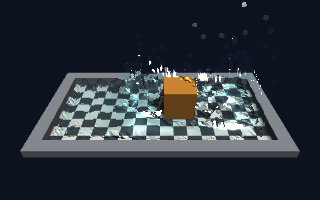
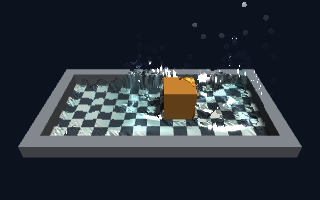
fix(physics): passo estável do PBF derivado do material; suavização da água ciente do plano local (spec 017)
O PBF rodava 1 substep fixo: abaixo de 5 cm de espaçamento o fluido explodia (a calibração de 5 cm a
60 Hz não vale para kernels menores). pbfStableDt = calibração × (h / 0,1)²: 1 substep a 5 cm
(trajetórias inalteradas), 4 a 2,5 cm. Suavização: o limiar de silhueta acompanha a inclinação local
(superfícies rasantes deixavam de suavizar e mostravam bandas). Cena da água com borda de 10 cm;
fixtures da fluidSurface regravadas.

Claude-Session: https://claude.ai/code/session_015NtZ5D3phr8urRhrPuP6ZA

Changed region(s): [[0.0312, 0.3, 0.9688, 0.78]]

diff --git a/src/elements/physics/flows/PBFFlow.ts b/src/elements/physics/flows/PBFFlow.ts
@@ -53,7 +53,10 @@ const PBF_S_CORR_K_AT_5CM = 1e-4;
 
 /** Opções do `PBFFlow`. */
 export interface PBFFlowOptions {
-    /** Substeps por passo de física (padrão 1). O passo vem do `Time` da cena. */
+    /**
+     * Mínimo de substeps por passo de física (padrão 1); o passo estável do `ParticleMaterial` pode exigir mais (spec
+     * 017). O passo vem do `Time` da cena.
+     */
     readonly substeps?: number;
     /** Iterações de projeção de densidade por substep (padrão 4). */
     readonly solverIters?: number;
@@ -106,7 +109,9 @@ export class PBFFlow extends Flow<PBFSlots, 'running'> {
     protected readonly transitions: FlowTransitions<'running', TransitionContext<PBFSlots>>;
 
     private readonly core: EngineCore;
-    private readonly substeps: number;
+    private readonly minSubsteps: number;
+    /** Substeps do quadro corrente (pelo passo estável do material). */
+    private substeps = 1;
     private readonly solverIters: number;
     private readonly maxNeighbors: number;
     private readonly params: PerStepUniforms;
@@ -125,7 +130,7 @@ export class PBFFlow extends Flow<PBFSlots, 'running'> {
         super();
         this.core = ctx.core;
         const bodyType = ctx.bodyType ?? 'PBFSchema';
-        this.substeps = Math.max(1, options.substeps ?? 1);
+        this.minSubsteps = Math.max(1, options.substeps ?? 1);
         this.solverIters = Math.max(1, options.solverIters ?? 4);
         this.maxNeighbors = options.maxNeighbors ?? 64;
         this.params = new PerStepUniforms(ctx.core, {
@@ -310,6 +315,12 @@ export class PBFFlow extends Flow<PBFSlots, 'running'> {
             this.neighborKey = key;
             ctx.bind(this.neighborSources());
         }
+        // Substeps pelo passo estável do material (spec 017: abaixo de 5 cm o passo fixo explodia o fluido).
+        this.substeps = ParticleMaterial.substepsFor(
+            time.stepDt,
+            material.pbfStableDt,
+            this.minSubsteps,
+        );
         this.iterations = time.steps * this.substeps;
         if (this.iterations === 0) return;
         this.neighborSearch.prepare(

diff --git a/src/elements/physics/materials/ParticleMaterial.ts b/src/elements/physics/materials/ParticleMaterial.ts
@@ -29,6 +29,10 @@ export interface ParticleMaterialOptions {
     readonly domainMax?: readonly [number, number, number];
 }
 
+/** Passo da calibração do PBF (s) e o raio de kernel em que ele vale (m): ver `ParticleMaterial.pbfStableDt`. */
+const PBF_CALIBRATION_DT = 1 / 60;
+const PBF_CALIBRATION_H = 0.1;
+
 /** Expoente da equação de Tait do SPH fracamente compressível. */
 export const TAIT_GAMMA = 7;
 
@@ -88,7 +92,7 @@ export interface ParticleMaterialData {
  *
  * As grandezas numéricas dos solvers derivam dele: massa da partícula ρ₀s³, raio de suavização do SPH (1,3 s; spline
  * cúbica com suporte 2h) e do PBF (2 s; poly6/spiky com suporte h), célula da grade MPM (2 s), módulo volumétrico
- * ρ₀c², parâmetros de Lamé de E/ν e o passo estável de cada algoritmo.
+ * ρ₀c², parâmetros de Lamé de E/ν e o passo estável de cada algoritmo (o do PBF escalado da calibração, spec 017).
  */
 export class ParticleMaterial extends Entity<ParticleMaterialData> implements Resource {
     /** Schema do uniform do material (dado do World; os estágios copiam os derivados para os seus parâmetros). */
@@ -239,6 +243,16 @@ export class ParticleMaterial extends Entity<ParticleMaterialData> implements Re
     /** Passo estável do SPH (CFL): 0,4 h / c. */
     get sphStableDt(): number {
         return (0.4 * this.sphSmoothingLength) / this.speedOfSound;
+    }
+
+    /**
+     * Passo estável do PBF: o passo da calibração (1/60 s com h = 0,1 m, isto é, 5 cm de espaçamento, e 4 iterações)
+     * escalado por (h / 0,1)². Duas coisas encolhem com o raio do kernel: o deslocamento por substep tolerado (CFL, ∝ h)
+     * e o alcance do solver de Jacobi, que propaga a correção cerca de um kernel por iteração (∝ h) — com o passo
+     * fixo, abaixo de 5 cm o fluido explodia (spec 017).
+     */
+    get pbfStableDt(): number {
+        return PBF_CALIBRATION_DT * (this.pbfSmoothingLength / PBF_CALIBRATION_H) ** 2;
     }
 
     /** Passo estável do MPM: 0,3 dx / max(c, √((λ+2μ)/ρ₀)). */

diff --git a/src/__smokes__/support/waterScene.ts b/src/__smokes__/support/waterScene.ts
@@ -126,6 +126,9 @@ function floor(app: Application): void {
     app.world.insert(new BoxCollider({ halfExtents: [2, 0.5, 2, 0], center: [0, -0.5, 0, 1] }));
 }
 
+/** Altura da borda visível do tanque (m). */
+const RIM = 0.1;
+
 /** Paredes do tanque: colisão e uma borda baixa visível (não esconde a água). */
 function walls(app: Application): void {
     const [hx, hz] = WATER_TANK;
@@ -140,11 +143,11 @@ function walls(app: Application): void {
         app.world.insert(
             new BoxCollider({ halfExtents: [ex, h, ez, 0], center: [x, h - 0.1, z, 1] }),
         );
-        const rim = new BoxGeometry({ size: [2 * ex, 0.06, 2 * ez] });
+        const rim = new BoxGeometry({ size: [2 * ex, RIM, 2 * ez] });
         rim.add(
             new StandardMaterial({ albedo: [0.55, 0.57, 0.6, 1], roughness: 0.8, metallic: 0 }),
         );
-        rim.add(new Transform({ position: [x, 0.03, z, 1] }));
+        rim.add(new Transform({ position: [x, RIM / 2, z, 1] }));
         app.world.insert(rim);
     }
 }

diff --git a/src/elements/physics/__tests__/ParticleMaterial.test.ts b/src/elements/physics/__tests__/ParticleMaterial.test.ts
@@ -66,6 +66,15 @@ describe('ParticleMaterial — grandezas derivadas', () => {
         expect(ParticleMaterial.substepsFor(1 / 60, 1)).toBe(1);
         expect(ParticleMaterial.substepsFor(1 / 60, 1, 3)).toBe(3);
     });
+
+    it('passo estável do PBF: a calibração de 5 cm a 60 Hz (1 substep) escalada por h² (spec 017)', () => {
+        const at = (s: number) => new ParticleMaterial({ particleSpacing: s });
+        expect(at(0.05).pbfStableDt).toBeCloseTo(1 / 60, 12);
+        expect(ParticleMaterial.substepsFor(1 / 60, at(0.05).pbfStableDt)).toBe(1);
+        expect(ParticleMaterial.substepsFor(1 / 60, at(0.025).pbfStableDt)).toBe(4);
+        expect(ParticleMaterial.substepsFor(1 / 60, at(0.1).pbfStableDt)).toBe(1);
+        expect(ParticleMaterial.substepsFor(1 / 30, at(0.05).pbfStableDt)).toBe(2);
+    });
 });
 
 describe('ParticleMaterial.of', () => {
